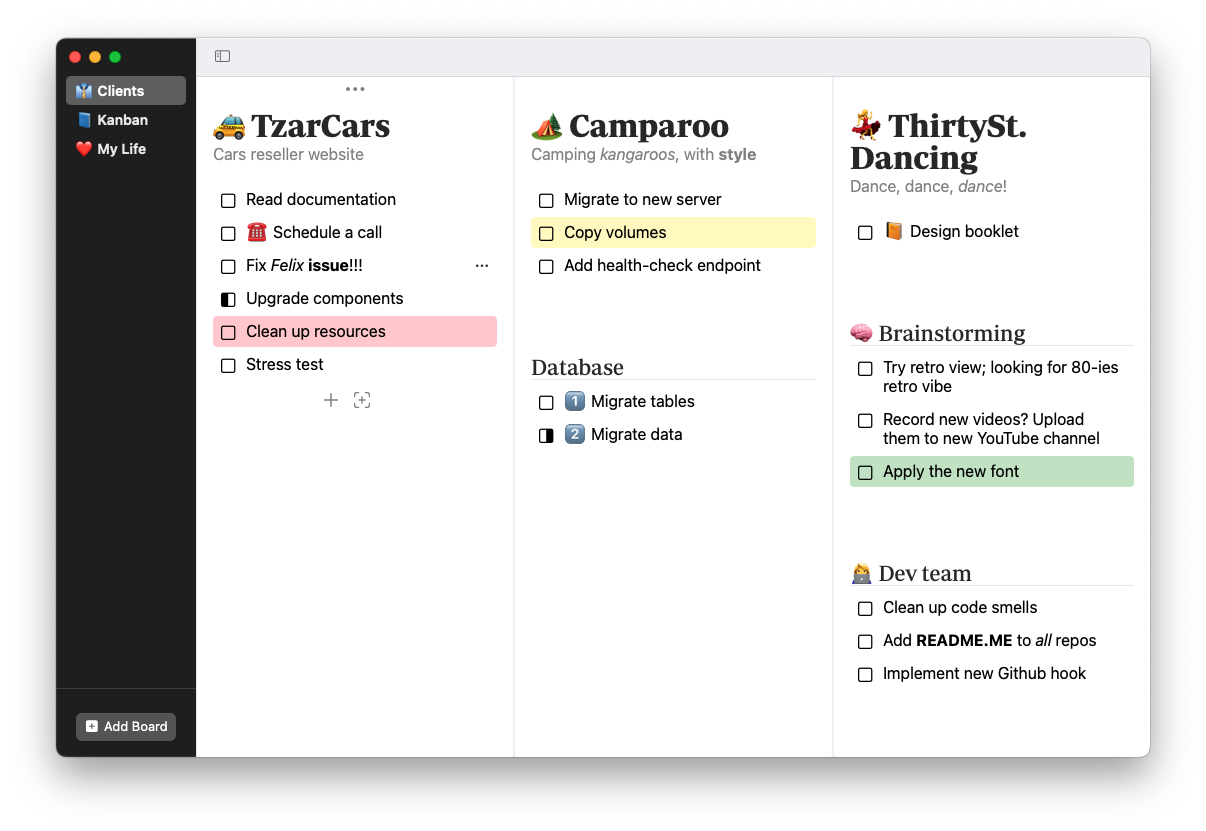
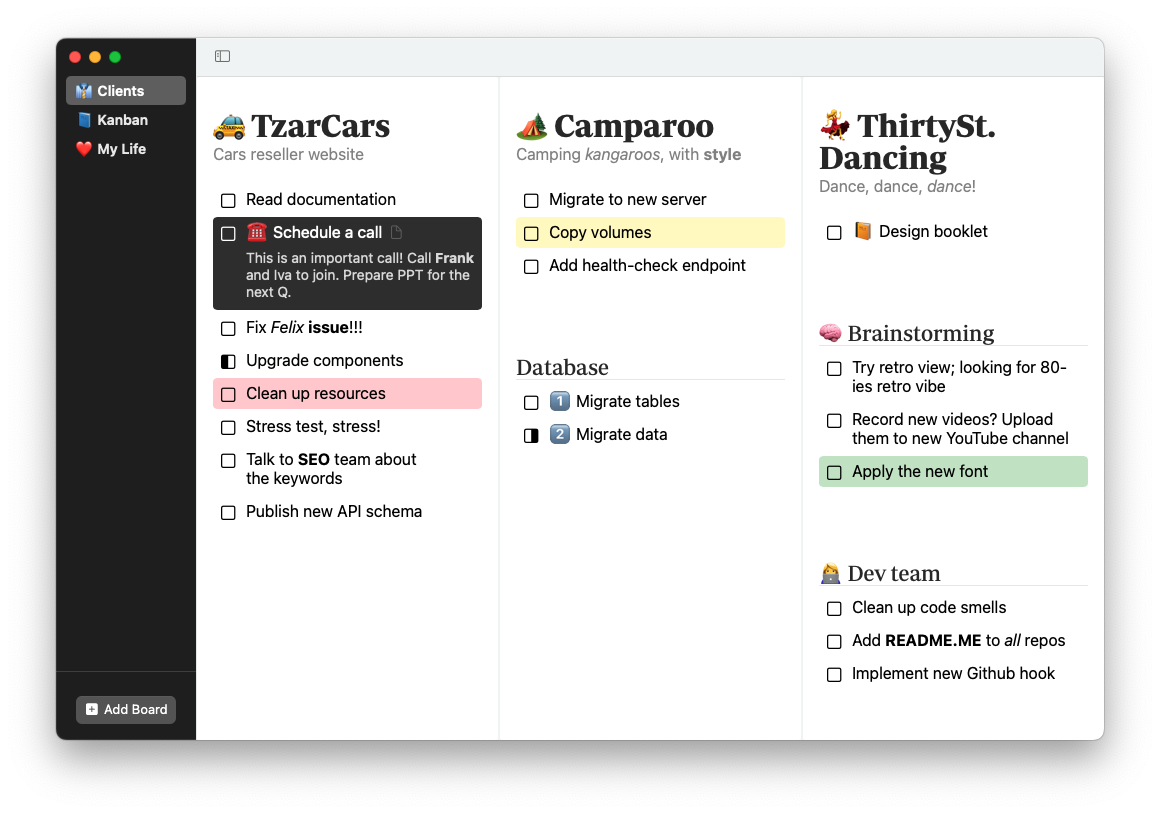
noice!

diff --git a/src/css/main.scss b/src/css/main.scss
@@ -21,8 +21,19 @@ html, body {
   height: 100%;
   width: 100%;
 }
+body {
+  display:flex;
+}
+.left, .right {
+  height: 100%;
+  flex:1;
+}
 main {
-  margin: 0 auto;
+  min-width: 200px;
+  max-width: 900px;
+  flex-basis: auto;
+  flex-grow: 1;
+  height: 100%;
   padding: 2em 10vw;
   text-rendering: optimizeLegibility;
   -webkit-font-smoothing: antialiased;
@@ -42,8 +53,8 @@ h1 {
 h2 {
   margin: 0;
   padding: 10px 0;
-  font-family: $font-title;
-  font-size: var(--font-4xl);
+  font-family: $font;
+  font-size: var(--font-2xl);
   line-height: 0.8;
   color: var(--black);
   letter-spacing: -2px;
@@ -71,6 +82,7 @@ p {
   display: var(--display-flex);
   align-items: center;
   h2 {
+    font-family: $font-title;
     font-size: var(--font-5xl);
     line-height: 0.8;
     letter-spacing: -4px;
@@ -87,4 +99,49 @@ code {
   font-weight: bold;
   background-color: var(--yellow-300);
   padding: 0 10px;
+}
+
+ul {
+  list-style: none;
+}
+ul li:before {
+  content: "—";
+  padding-right: 10px;
+}
+em {
+  font-style: normal;
+  background-color: var(--pink-200);
+}
+
+@media (max-width: 768px) {
+  h1 {
+    font-size: 6rem;
+  }
+  #logo {
+    align-items: unset;
+    h2 {
+      font-size: 3rem;
+    }
+    img {
+      width: 128px;
+      height: 128px;
+    }
+  }
+}
+@media (max-width: 480px) {
+  h1 {
+    font-size: 2.2rem;
+    letter-spacing: 0;
+  }
+  #logo {
+    align-items: unset;
+    h2 {
+      letter-spacing: 0;
+      font-size: 1.2rem;
+    }
+    img {
+      width: 64px;
+      height: 64px;
+    }
+  }
 }

diff --git a/src/site/index.md b/src/site/index.md
@@ -5,7 +5,15 @@
 
 ## Multiple columns at once
 
-Visibility is the key.
+Visibility is crutial. `Clmn` shows multiple tasks columns at once. That gives an overrive of all tasks that bellong to the same domain.
+
+## Nothing fancy, just enough
+
+There is nothing fancy in `Clmn`. No stars, important tasks, priorities, sublists... All that takes our focus away. Task is a task, and that is all.
+
+`Clmn` offers just enough functionalities:
+
+- Task _notes_ for 
 
 ## Why?
 
